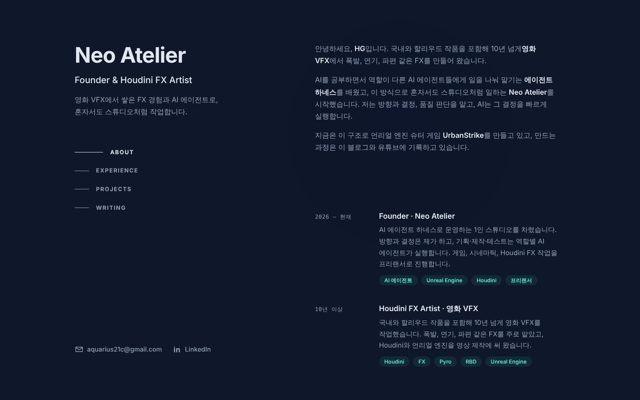
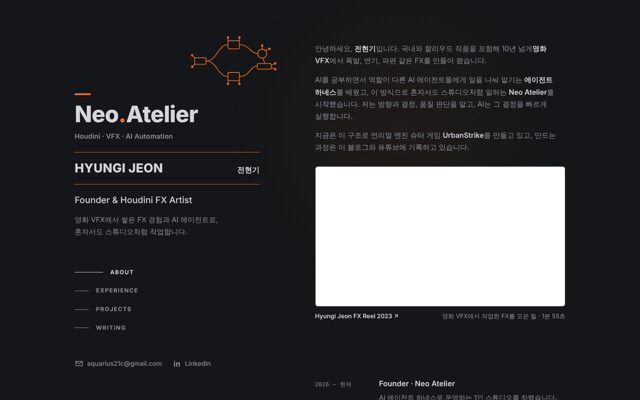
Restyle homepage after the Neo Atelier business card, add FX reel
Charcoal background with orange accents, an orange bar and dot in the
Neo.Atelier wordmark, name row between orange rules, and a node-graph
motif. The About section embeds the 2023 FX reel from Vimeo.

Claude-Session: https://claude.ai/code/session_01ADUa9izcwCMGkJeSoDPczs

diff --git a/src/styles/home.css b/src/styles/home.css
@@ -9,7 +9,7 @@ body.bare { line-height: 1.7; }
   z-index: 0;
   opacity: 0;
   transition: opacity 0.4s;
-  background: radial-gradient(560px circle at var(--x, 50%) var(--y, 30%), rgba(29, 78, 216, 0.15), transparent 70%);
+  background: radial-gradient(560px circle at var(--x, 50%) var(--y, 30%), rgba(242, 107, 29, 0.06), transparent 70%);
 }
 .spotlight.on { opacity: 1; }
 
@@ -21,10 +21,30 @@ body.bare { line-height: 1.7; }
   padding: 48px 16px;
 }
 
-.intro h1 { margin: 0; font-size: clamp(2.2rem, 6vw, 3rem); line-height: 1.15; letter-spacing: -0.02em; }
+.intro > div { position: relative; }
+.node-graph { display: block; width: min(220px, 55%); margin: 0 0 8px auto; color: var(--accent); opacity: 0.9; }
+.brand-bar { display: block; width: 36px; height: 4px; margin-bottom: 14px; background: var(--accent); }
+.intro h1 { margin: 0; font-size: clamp(2.4rem, 6vw, 3.2rem); font-weight: 800; line-height: 1.1; letter-spacing: -0.02em; }
 .intro h1 a { color: var(--text); }
+.intro h1 .dot { color: var(--accent); }
+.keywords { margin: 10px 0 0; font-size: 0.95rem; font-weight: 600; color: var(--muted); letter-spacing: 0.01em; }
+.person {
+  display: flex;
+  justify-content: space-between;
+  align-items: baseline;
+  gap: 16px;
+  max-width: 26rem;
+  margin: 22px 0 0;
+  padding: 12px 0;
+  border-top: 1px solid var(--accent);
+  border-bottom: 1px solid var(--accent);
+  font-weight: 800;
+  color: var(--text);
+}
+.person span:first-child { font-size: clamp(1.4rem, 3.4vw, 1.75rem); letter-spacing: 0.01em; }
+.person span:last-child { font-size: 1.05rem; }
 .intro h1 a:hover { text-decoration: none; }
-.role { margin: 12px 0 0; font-size: clamp(1.1rem, 2.4vw, 1.25rem); font-weight: 500; color: var(--text); }
+.role { margin: 18px 0 0; font-size: clamp(1.1rem, 2.4vw, 1.25rem); font-weight: 500; color: var(--text); }
 .tagline { margin: 14px 0 0; max-width: 22rem; color: var(--muted); }
 
 .section-nav { display: none; }
@@ -66,7 +86,7 @@ body.bare { line-height: 1.7; }
   letter-spacing: 0.12em;
   text-transform: uppercase;
   color: var(--text);
-  background: rgba(15, 23, 42, 0.8);
+  background: rgba(20, 22, 25, 0.85);
   backdrop-filter: blur(8px);
 }
 
@@ -100,6 +120,13 @@ body.bare { line-height: 1.7; }
 .more a { color: var(--text); font-weight: 600; }
 .more a:hover { color: var(--accent); text-decoration: none; }
 
+.reel { margin: 28px 0 0; }
+.reel-frame { position: relative; aspect-ratio: 16 / 9; max-width: 100%; border-radius: 6px; overflow: hidden; border: 1px solid var(--border); background: #000; }
+.reel-frame iframe { position: absolute; inset: 0; width: 100%; height: 100%; border: 0; }
+.reel figcaption { display: flex; flex-wrap: wrap; justify-content: space-between; gap: 4px 16px; margin-top: 10px; font-size: 0.85rem; color: var(--muted); }
+.reel figcaption a { color: var(--text); font-weight: 600; }
+.reel figcaption a:hover { color: var(--accent); text-decoration: none; }
+
 .home-footer { color: var(--muted); font-size: 0.85rem; padding-bottom: 24px; }
 
 @media (min-width: 768px) {
@@ -116,7 +143,7 @@ body.bare { line-height: 1.7; }
     transition: background 0.2s, border-color 0.2s;
     z-index: -1;
   }
-  .card:hover::before { background: rgba(30, 41, 59, 0.5); border-color: var(--border); }
+  .card:hover::before { background: rgba(40, 44, 50, 0.45); border-color: var(--border); }
   /* 카드 하나에 올리면 나머지는 흐리게 */
   .cards:hover > .card:not(:hover) { opacity: 0.5; }
   .card { transition: opacity 0.2s; }
@@ -133,7 +160,7 @@ body.bare { line-height: 1.7; }
     justify-content: space-between;
     width: 44%;
     max-height: 100vh;
-    padding: 96px 0;
+    padding: 64px 0;
   }
   .section-nav { display: block; }
   .contacts { margin-top: 0; }

diff --git a/src/data/profile.ts b/src/data/profile.ts
@@ -2,7 +2,9 @@
 
 export const profile = {
   name: 'Neo Atelier',
-  owner: 'HG',
+  keywords: 'Houdini · VFX · AI Automation',
+  nameEn: 'HYUNGI JEON',
+  nameKo: '전현기',
   role: 'Founder & Houdini FX Artist',
   tagline: '영화 VFX에서 쌓은 FX 경험과 AI 에이전트로, 혼자서도 스튜디오처럼 작업합니다.',
 };
@@ -11,6 +13,13 @@ export const profile = {
 export const contacts = {
   email: 'aquarius21c@gmail.com',
   linkedin: 'https://www.linkedin.com/in/hyungijeon/',
+};
+
+// 소개 섹션에 넣는 FX 릴 (Vimeo 공개 영상)
+export const reel = {
+  vimeoId: '878370325',
+  title: 'Hyungi Jeon FX Reel 2023',
+  caption: '영화 VFX에서 작업한 FX를 모은 릴 · 1분 55초',
 };
 
 export const experience = [

diff --git a/src/styles/global.css b/src/styles/global.css
@@ -1,11 +1,11 @@
 :root {
-  --bg: #0f172a;
-  --surface: #172036;
-  --border: #263247;
-  --text: #e2e8f0;
-  --muted: #94a3b8;
-  --accent: #5eead4;
-  --accent-soft: rgba(45, 212, 191, 0.1);
+  --bg: #141619;
+  --surface: #1c1f23;
+  --border: #2c3036;
+  --text: #d4d6da;
+  --muted: #8d929a;
+  --accent: #f26b1d;
+  --accent-soft: rgba(242, 107, 29, 0.12);
   --font: 'Pretendard', 'Apple SD Gothic Neo', 'Malgun Gothic', system-ui, sans-serif;
   --mono: ui-monospace, 'Cascadia Code', Consolas, monospace;
   color-scheme: dark;
